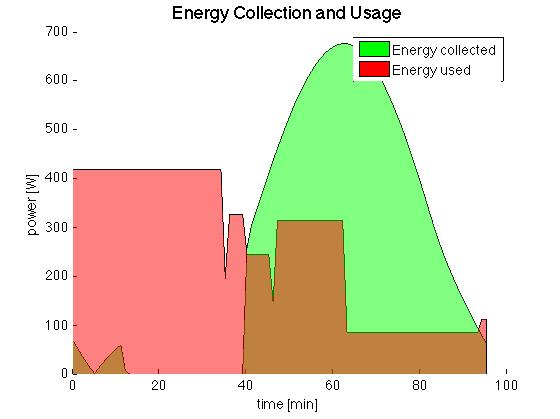
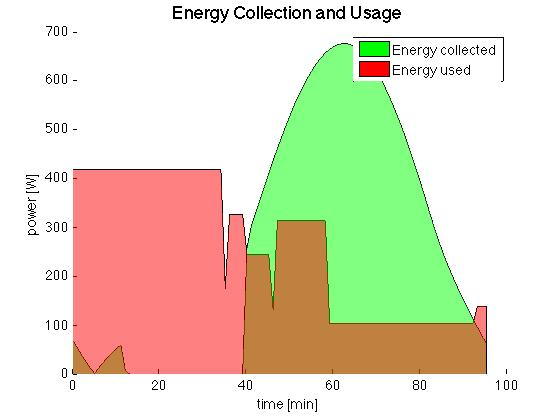
Analysis for nominal and worst case with

Changed region(s): [[0.5768, 0.5274, 0.8804, 0.8067], [0.3946, 0.5585, 0.425, 0.6826], [0.4857, 0.6826, 0.5161, 0.7446]]

diff --git a/power_analysis/power_analysis.m b/power_analysis/power_analysis.m
@@ -5,7 +5,10 @@ close all
 %% Single orbit
 dl = 195;
 dc = 250;
-sms = 117;
+sms = 83;
+
+reaction_wheel_power = 22;
+rot = sms + reaction_wheel_power;
 
 dt = 60; % sec
 
@@ -14,13 +17,13 @@ orbit_duration = 94.62; %min
 dl_time = 10; %min
 rotation_time = 1; %min
 dc_time = 35; %min
-dc_time_2 = 16;
+dc_time_2 = 0;
 
 % mode_power = [dc sms dl sms dc sms dl sms];
 % dc_time = (orbit_duration - 2*dl_time - 4*rotation_time) / 2;
 % mode_duration = [dc_time rotation_time dl_time rotation_time ...
 %     dc_time rotation_time dl_time rotation_time]*60;
-mode_power = [dc sms dl sms dc sms-50];
+mode_power = [dc rot dl rot dc sms];
 mode_duration = [dc_time rotation_time dl_time rotation_time dc_time_2 ...
     (orbit_duration - dc_time - rotation_time - dl_time - dc_time_2)]*60;
 
@@ -28,7 +31,7 @@ num_orbits = 1;
 mode_power = repmat(mode_power, 1, num_orbits);
 mode_duration = repmat(mode_duration, 1, num_orbits);
 
-stk_mat_file = '../stk_power_data/case_y45_z45_nov_135';
+stk_mat_file = '../stk_power_data/case_y45_z45_sept_315';
 
 x_solar = 0.8;
 x_batt = 0.6;
